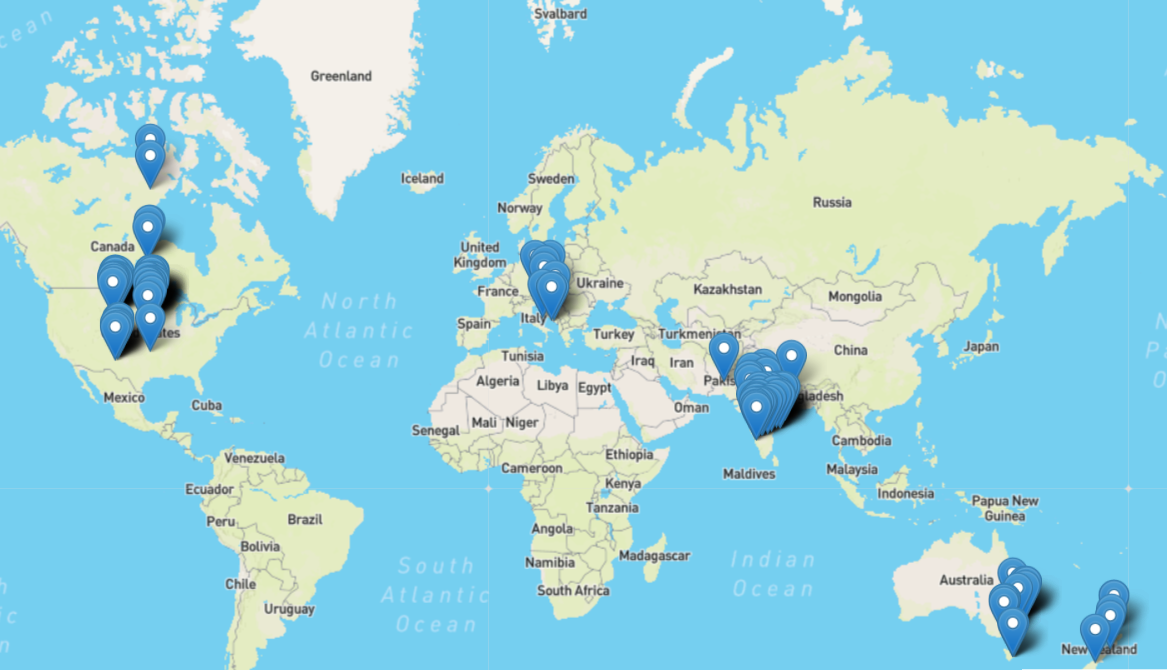
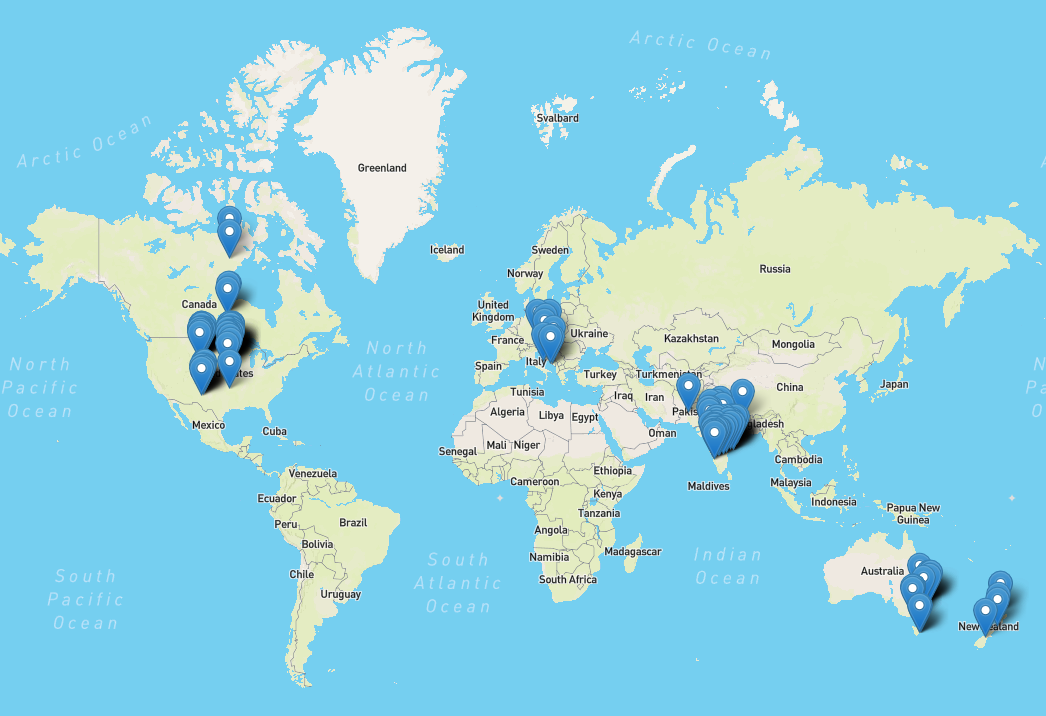
minor fixes

diff --git a/assets/demo/users-table.js b/assets/demo/users-table.js
@@ -8,10 +8,11 @@ const generateUsersTable = () => {
     return date;
   }
 
-  const createUser = (name, tours, tourLink) => ({
+  const createUser = (name, country, tours, tourLink) => ({
     name: name,
     tours: tours,
     tourLink: tourLink,
+    country,
     accountCreationDate: randomDate(
       randomDate(new Date(2021, 7, 1), new Date(), 0, 24),
       new Date(),
@@ -21,22 +22,27 @@ const generateUsersTable = () => {
   });
 
   let topCreators = [
-    createUser("Anupam", 112, "d96409bf894217686ba124d7356686c9"),
-    createUser("Mukeshjha", 25, "140f6969d5213fd0ece03148e62e461e"),
-    createUser("Saurav", 19, "33e75ff09dd601bbe69f351039152189"),
-    createUser("Gautam", 11, "fc490ca45c00b1249bbe3554a4fdf6fb"),
-    createUser("Anshul", 10, "a3c65c2974270fd093ee8a9bf8ae7d0b"),
-    createUser("Sarvasiddi", 10, "f2217062e9a397a1dca429e7d70bc6ca"),
-    createUser("Pratibhatukaram", 8, "85d8ce590ad8981ca2c8286f79f59954"),
-    createUser("Virendra", 8, "f0935e4cd5920aa6c7c996a5ee53a70f"),
-    createUser("Arpit", 6, "9b8619251a19057cff70779273e95aa6"),
-    createUser("Shrutikala", 5, "310dcbbf4cce62f762a2aaa148d556bd"),
-    createUser("Kashish", 5, "65ded5353c5ee48d0b7d48c591b8f430"),
-    createUser("Dharam", 5, "ec5decca5ed3d6b8079e2e7e7bacc9f2"),
-    createUser("Fayyaz", 5, "3295c76acbf4caaed33c36b1b5fc2cb1"),
-    createUser("Aman", 4, "82aa4b0af34c2313a562076992e50aa3"),
-    createUser("Kuldeepsingh", 4, "289dff07669d7a23de0ef88d2f7129e7"),
-    createUser("Harleenkaur", 4, "950a4152c2b4aa3ad78bdd6b366cc179"),
+    createUser("Anupam", "India", 112, "d96409bf894217686ba124d7356686c9"),
+    createUser("Mukeshjha", "India", 25, "140f6969d5213fd0ece03148e62e461e"),
+    createUser("Saurav", "India", 19, "33e75ff09dd601bbe69f351039152189"),
+    createUser("Gautam", "India", 11, "fc490ca45c00b1249bbe3554a4fdf6fb"),
+    createUser("Anshul", "India", 10, "a3c65c2974270fd093ee8a9bf8ae7d0b"),
+    createUser("Sarvasiddi", "India", 10, "f2217062e9a397a1dca429e7d70bc6ca"),
+    createUser(
+      "Pratibhatukaram",
+      "India",
+      8,
+      "85d8ce590ad8981ca2c8286f79f59954"
+    ),
+    createUser("Virendra", "India", 8, "f0935e4cd5920aa6c7c996a5ee53a70f"),
+    createUser("Arpit", "India", 6, "9b8619251a19057cff70779273e95aa6"),
+    createUser("Shrutikala", "India", 5, "310dcbbf4cce62f762a2aaa148d556bd"),
+    createUser("Kashish", "India", 5, "65ded5353c5ee48d0b7d48c591b8f430"),
+    createUser("Dharam", "India", 5, "ec5decca5ed3d6b8079e2e7e7bacc9f2"),
+    createUser("Fayyaz", "India", 5, "3295c76acbf4caaed33c36b1b5fc2cb1"),
+    createUser("Aman", "India", 4, "82aa4b0af34c2313a562076992e50aa3"),
+    createUser("Kuldeepsingh", "India", 4, "289dff07669d7a23de0ef88d2f7129e7"),
+    createUser("Harleenkaur", "India", 4, "950a4152c2b4aa3ad78bdd6b366cc179"),
   ];
 
   topCreators.forEach((user) => {
@@ -44,14 +50,16 @@ const generateUsersTable = () => {
     const tableData1 = document.createElement("td");
     tableData1.innerHTML = user.name;
     const tableData2 = document.createElement("td");
-    tableData2.innerHTML = user.tours;
+    tableData2.innerHTML = user.country;
     const tableData3 = document.createElement("td");
-    tableData3.innerHTML =
+    tableData3.innerHTML = user.tours;
+    const tableData4 = document.createElement("td");
+    tableData4.innerHTML =
       user.accountCreationDate.getDate() +
       " " +
       months[user.accountCreationDate.getMonth()];
 
-    const tableData4 = document.createElement("td");
+    const tableData5 = document.createElement("td");
     const tourLink = document.createElement("a");
     tourLink.href =
       "https://makevr.pro/login/viewer/index.php?code=" + user.tourLink;
@@ -60,11 +68,13 @@ const generateUsersTable = () => {
     tourLink.target = "_blank";
     tourLink.rel = "noopener noreferrer";
 
-    tableData4.appendChild(tourLink);
+    tableData5.appendChild(tourLink);
+
     tableRow.appendChild(tableData1);
     tableRow.appendChild(tableData2);
     tableRow.appendChild(tableData3);
     tableRow.appendChild(tableData4);
+    tableRow.appendChild(tableData5);
     table.appendChild(tableRow);
   });
 };

diff --git a/pages/map2.html b/pages/map2.html
@@ -316,15 +316,13 @@
       function initMap() {
         console.log("init map");
 
-        var map = L.map("map").setView([51.505, -0.09], 5);
+        var map = L.map("map").setView([41.505, -0.09], 2.4);
 
         var tiles = L.tileLayer(
           "https://api.mapbox.com/styles/v1/{id}/tiles/{z}/{x}/{y}?access_token=pk.eyJ1IjoibWFwYm94IiwiYSI6ImNpejY4NXVycTA2emYycXBndHRqcmZ3N3gifQ.rJcFIG214AriISLbB6B5aw",
           {
             maxZoom: 18,
-            attribution:
-              'Map data &copy; <a href="https://www.openstreetmap.org/copyright">OpenStreetMap</a> contributors, ' +
-              'Imagery © <a href="https://www.mapbox.com/">Mapbox</a>',
+            attribution: "Users Location",
             id: "mapbox/streets-v11",
             tileSize: 512,
             zoomOffset: -1,

diff --git a/assets/demo/demo.js b/assets/demo/demo.js
@@ -445,7 +445,7 @@ demo = {
       var chart_data = totalUsersAddedInMonths;
       // for getting from aug
       // chart_data = chart_data.slice(7);
-      chart_data = [56, 110, 196, 155, 210];
+      chart_data = [56, 60, 126, 205, 280];
 
       ctx = document.getElementById("chartBig1").getContext("2d");
 
@@ -524,7 +524,7 @@ demo = {
           pointHoverRadius: 4,
           pointHoverBorderWidth: 15,
           pointRadius: 4,
-          data: [3768, 6780, 11352, 13200],
+          data: [3768, 6780, 9352, 15200],
         },
       ],
     };

diff --git a/index.html b/index.html
@@ -246,7 +246,7 @@
               <div class="card card-chart">
                 <div class="card-header">
                   <h5 class="card-category">Tour Views</h5>
-                  <h3 class="card-title">35100K</h3>
+                  <h3 class="card-title">35,100</h3>
                 </div>
                 <div class="card-body">
                   <div class="chart-area">

diff --git a/pages/usersList.html b/pages/usersList.html
@@ -140,6 +140,7 @@
                   <table class="table">
                     <thead>
                       <th>Name</th>
+                      <th>Country</th>
                       <th>No. of Tours</th>
                       <th>Date of Joining</th>
                       <th>Tour Link</th>

diff --git a/assets/css/custom-css.css b/assets/css/custom-css.css
@@ -65,11 +65,12 @@ footer {
 
 .mini-map {
   height: 295px;
+  width: 100%;
 }
 
 .mini-map img {
-  width: auto;
-  height: 295px;
+  width: 100%;
+  height: 100%;
   object-fit: cover;
 }
 
